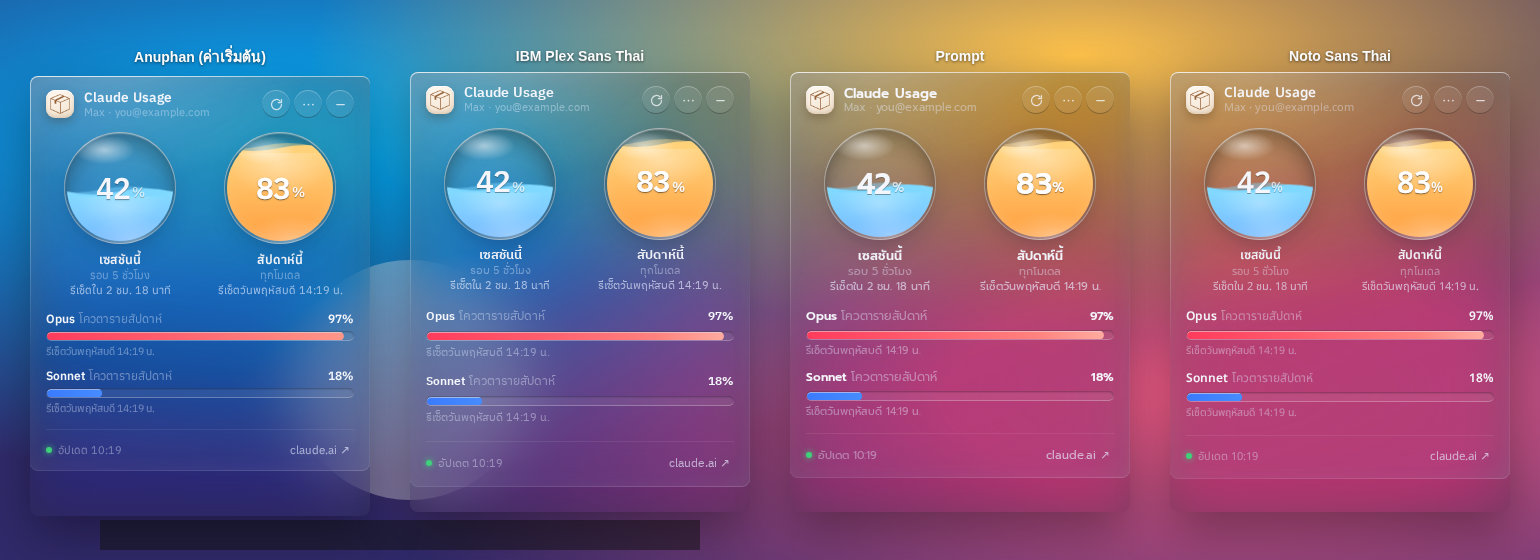
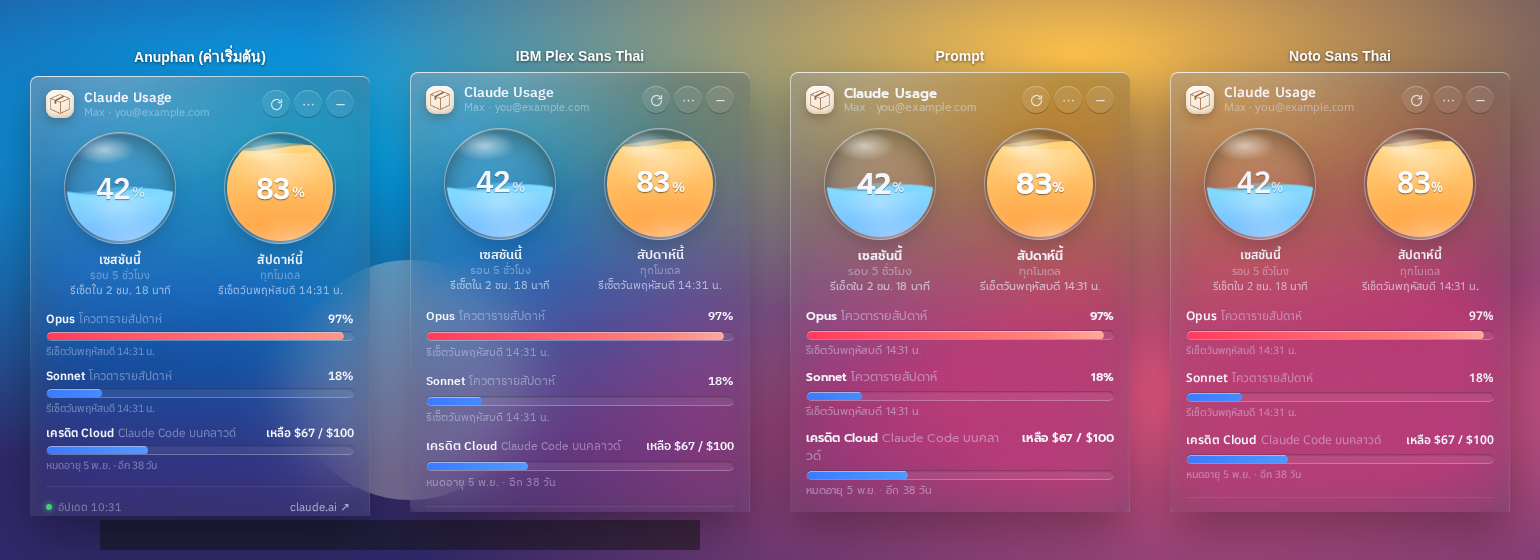
v1.3.0: show Claude Code cloud credits (iguana_necktie) as dollars
Claude-Session: https://claude.ai/code/session_01VLYuGNpBgneFXZWrjKGAbq

diff --git a/src/renderer.js b/src/renderer.js
@@ -14,6 +14,7 @@
         { key: 'seven_day', th: 'สัปดาห์นี้', sub: 'ทุกโมเดล', pct: 83, resetsAt: new Date(now + 76 * h).toISOString() },
         { key: 'seven_day_opus', th: 'Opus', sub: 'โควตารายสัปดาห์', pct: 97, resetsAt: new Date(now + 76 * h).toISOString() },
         { key: 'seven_day_sonnet', th: 'Sonnet', sub: 'โควตารายสัปดาห์', pct: 18, resetsAt: new Date(now + 76 * h).toISOString() },
+        { key: 'iguana_necktie', kind: 'credit', th: 'เครดิต Cloud', sub: 'Claude Code บนคลาวด์', pct: 33, limit: 100, used: 33, left: 67, resetsAt: new Date(now + 38 * 24 * h).toISOString() },
       ] },
       auth: { state: 'auth' },
     }[mock];
@@ -67,14 +68,22 @@
       </div>`;
   }
 
+  const usd = (n) => '$' + (Math.round(n * 100) / 100).toFixed(n % 1 ? 2 : 0);
+  const rpText = (it) => (it.kind === 'credit' ? `เหลือ ${usd(it.left)} / ${usd(it.limit)}` : `${Math.round(it.pct)}%`);
+  function expiryText(iso) {
+    if (!iso) return 'ไม่มีวันหมดอายุ';
+    const d = new Date(iso), days = Math.ceil((d - Date.now()) / 864e5);
+    if (days <= 0) return 'หมดอายุแล้ว';
+    return `หมดอายุ ${d.toLocaleDateString('th-TH', { day: 'numeric', month: 'short' })} · อีก ${days} วัน`;
+  }
   function rowHTML(it) {
-    const p = Math.round(it.pct);
+    const credit = it.kind === 'credit';
     return `
       <div class="row">
         <span class="rl">${esc(it.th)}<em>${esc(it.sub)}</em></span>
-        <span class="rp">${p}%</span>
+        <span class="rp">${rpText(it)}</span>
         <div class="capsule" data-level="${level(it.pct)}" style="--p:0"><i></i></div>
-        <span class="rr" data-reset="${esc(it.resetsAt || '')}">${resetText(it.resetsAt)}</span>
+        <span class="rr" data-kind="${credit ? 'credit' : ''}" data-reset="${esc(it.resetsAt || '')}">${credit ? expiryText(it.resetsAt) : resetText(it.resetsAt)}</span>
       </div>`;
   }
 
@@ -97,7 +106,7 @@
       });
       const rows = [...document.querySelectorAll('.row')];
       rowItems.forEach((it, i) => { const r = rows[i]; if (!r) return;
-        r.querySelector('.rp').textContent = `${Math.round(it.pct)}%`; r.querySelector('.rr').dataset.reset = it.resetsAt || ''; });
+        r.querySelector('.rp').textContent = rpText(it); r.querySelector('.rr').dataset.reset = it.resetsAt || ''; });
     }
     // set fill levels on next frame so the transition runs
     requestAnimationFrame(() => requestAnimationFrame(() => {
@@ -115,7 +124,7 @@
   }
 
   function tickResets() {
-    document.querySelectorAll('[data-reset]').forEach((el) => (el.textContent = resetText(el.dataset.reset || null)));
+    document.querySelectorAll('[data-reset]').forEach((el) => (el.textContent = el.dataset.kind === 'credit' ? expiryText(el.dataset.reset || null) : resetText(el.dataset.reset || null)));
   }
   setInterval(tickResets, 30000);
 

diff --git a/src/main.js b/src/main.js
@@ -224,12 +224,29 @@ const LABELS = {
   seven_day_oauth_apps: { th: 'แอปที่เชื่อมต่อ', sub: 'โควตารายสัปดาห์' },
   seven_day_cowork:     { th: 'Cowork',      sub: 'โควตารายสัปดาห์' },
   extra_usage:          { th: 'Extra usage', sub: 'เครดิตเพิ่มเติม' },
+  iguana_necktie:       { th: 'เครดิต Cloud', sub: 'Claude Code บนคลาวด์' }, // fallback if no dollar fields
+};
+
+const CREDIT_LABELS = {
+  iguana_necktie: { th: 'เครดิต Cloud', sub: 'Claude Code บนคลาวด์' },
 };
 
 function normalize(usage) {
   const items = [];
   for (const [key, v] of Object.entries(usage || {})) {
     if (!v || typeof v !== 'object') continue;
+    // Dollar credit grants (e.g. iguana_necktie = Claude Code cloud-session credits):
+    // { limit_dollars, used_dollars, remaining_dollars, resets_at (= expiry) }
+    const lim = Number(v.limit_dollars);
+    if (lim > 0) {
+      let used = Number(v.used_dollars), left = Number(v.remaining_dollars);
+      if (!Number.isFinite(used)) used = Number.isFinite(left) ? lim - left : 0;
+      if (!Number.isFinite(left)) left = lim - used;
+      const meta = CREDIT_LABELS[key] || { th: 'เครดิต', sub: key.replace(/_/g, ' ') };
+      items.push({ key, kind: 'credit', pct: Math.max(0, Math.min(100, (used / lim) * 100)),
+        limit: lim, used, left: Math.max(0, left), resetsAt: v.resets_at || null, ...meta });
+      continue;
+    }
     const u = v.utilization;
     if (typeof u !== 'number') continue;
     if (key === 'extra_usage' && v.is_enabled === false) continue;
@@ -238,7 +255,7 @@ function normalize(usage) {
     items.push({ key, pct: Math.max(0, Math.min(100, u)), resetsAt: v.resets_at || null, ...meta });
   }
   const order = Object.keys(LABELS);
-  const rank = (k) => (order.indexOf(k) + 1) || 99;
+  const rank = (k) => (order.indexOf(k) + 1) || (CREDIT_LABELS[k] ? 90 : 99);
   items.sort((a, b) => rank(a.key) - rank(b.key));
   return items;
 }

diff --git a/README.md b/README.md
@@ -43,7 +43,8 @@ Your session is stored **only on your PC**, in the app's own browser profile. It
 - Liquid-glass orbs whose fill level shows usage. The colour changes from blue to amber to red as you get close to a limit.
 - A countdown to each reset, in Thai.
 - Per-model weekly limits (Opus, Sonnet) appear only when claude.ai reports them for your plan. Pro accounts usually get just the session and weekly limits.
-- Limits that claude.ai returns under internal codenames are hidden by default. You can show them from the tray menu.
+- Claude Code cloud-session credits (the `iguana_necktie` field in the API) are shown as dollars remaining, with the expiry date.
+- Other limits that claude.ai returns under internal codenames (e.g. `nimbus_quill`) are hidden by default. You can show them from the tray menu.
 - Tray menu with these settings:
   - Always on top
   - Start with Windows
